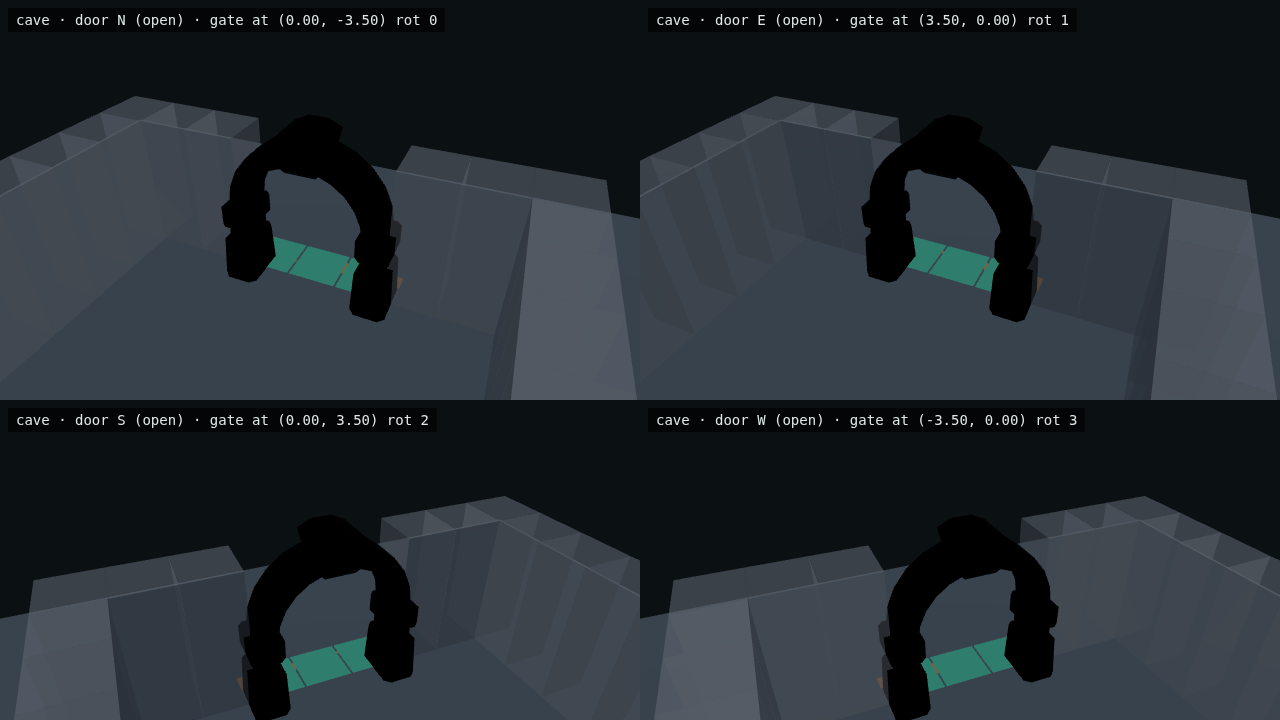
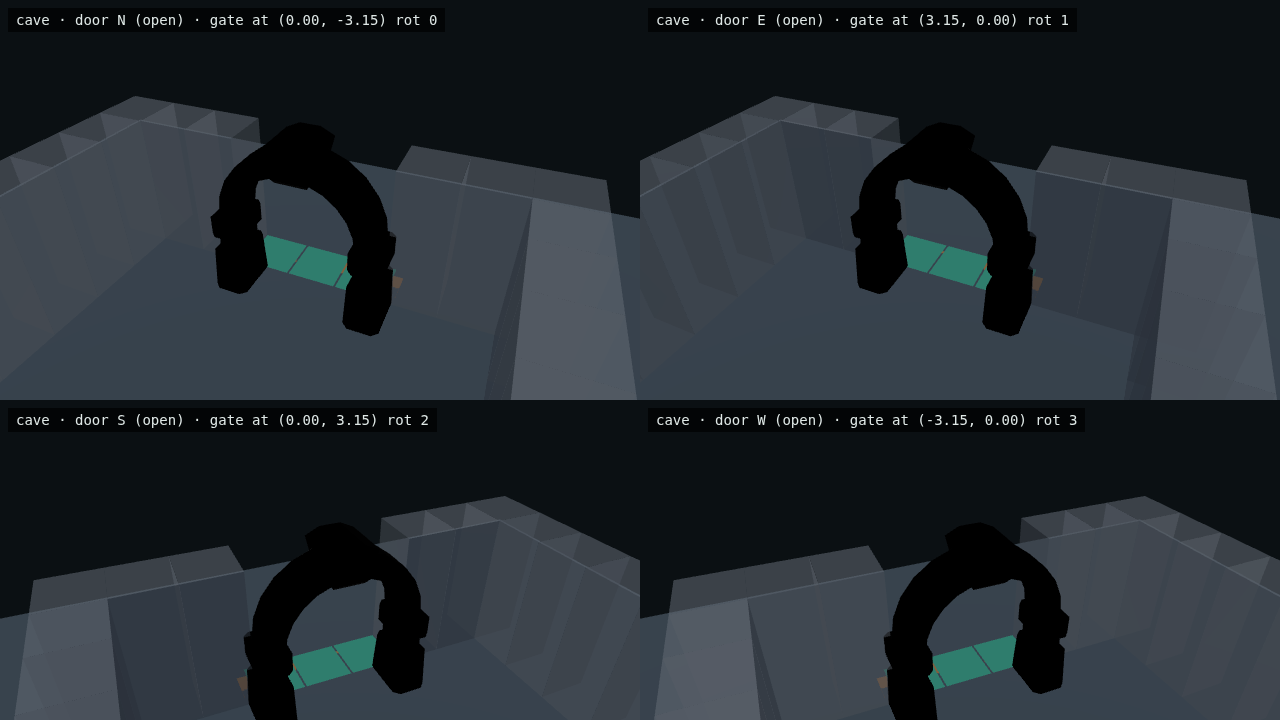
fix(world): stand the gateway frame clear of the closed blast door (M1)
The four-side gateway probe (tests/e2e/probes/gateway-orientation.spec.js)
showed the frame matching the corridor convention on n/e/s/w in both skins and
framing the open threshold cleanly, but the closed procedural blast door, a
3.35 x 4.8 x 0.58 slab centred on the threshold line that sinks into the
floor, ran through both posts and above the arch: centred, and still with
e113e3e3's half-cell inset (frame half-depth 0.525 + slab half-thickness 0.29
> 0.5).

- proceduralDoors.js owns the slab footprint (PROCEDURAL_DOOR_SLAB_SPAN /
  _THICKNESS); threeGame scales the door mesh from them.
- kitGrammar.GATEWAY_ROOM_INSET derives the room-side inset from the gate's
  measured half-depth at KIT_SCALE plus the slab's half-thickness plus 3.5 cm
  (about 0.85), so the frame stands just clear of the slab.
- kitGrammar.test reads both gate.glb files and proves the frame's back face
  clears the slab by less than a tenth of a cell; the four-side and set-piece
  expectations use the constant.
- Re-captured the four closed/open evidence images; continuation journal
  records the finding.

Checks: 41 focused tests (also on the staged snapshot alone), full suite
4,952 passed, 500-seed sweep 0 failures, docs audit passed.

diff --git a/src/kitGrammar.test.js b/src/kitGrammar.test.js
@@ -1,9 +1,35 @@
 import { describe, expect, it } from 'vitest';
+import fs from 'node:fs';
 import { WORLD_3D_MODELS } from './world3dOverlay.js';
+import { KIT_SCALE } from './kitMaterials.js';
+import { PROCEDURAL_DOOR_SLAB_THICKNESS } from './proceduralDoors.js';
 import {
-    KIT_SKINS, SHARED_ROLES, SKIN_ONLY_ROLES,
+    KIT_SKINS, SHARED_ROLES, SKIN_ONLY_ROLES, GATE_MODEL_HALF_DEPTH, GATEWAY_ROOM_INSET,
     skinForBiome, kitPieceFor, chooseKitPiece, corridorKitPlacement, roomGatewayKitPlacement
 } from './kitGrammar.js';
+
+// Z extent (depth across the threshold) of every mesh in a GLB, from its
+// POSITION accessor bounds through the node translations. Enough for the
+// kit gate, whose nodes are translated but not rotated or scaled.
+function glbDepthExtent(path) {
+    const buffer = fs.readFileSync(path);
+    const json = JSON.parse(buffer.subarray(20, 20 + buffer.readUInt32LE(12)).toString('utf8'));
+    let min = Infinity;
+    let max = -Infinity;
+    const visit = (index, offsetZ) => {
+        const node = json.nodes[index];
+        expect(node.rotation ?? [0, 0, 0, 1]).toEqual([0, 0, 0, 1]);
+        const z = offsetZ + (node.translation?.[2] ?? 0);
+        for (const primitive of json.meshes[node.mesh]?.primitives ?? []) {
+            const accessor = json.accessors[primitive.attributes.POSITION];
+            min = Math.min(min, z + accessor.min[2]);
+            max = Math.max(max, z + accessor.max[2]);
+        }
+        for (const child of node.children ?? []) visit(child, z);
+    };
+    for (const root of json.scenes[json.scene ?? 0].nodes) visit(root, 0);
+    return { min, max };
+}
 
 describe('biome skinning', () => {
     it('routes rock biomes to the cave kit and fabricated ones to space', () => {
@@ -143,14 +169,27 @@ describe('role resolution', () => {
 
 describe('authored room gateway placement', () => {
     it.each([
-        ['n', [{ x: 3, y: 2 }, { x: 4, y: 2 }, { x: 5, y: 2 }], 4, 2.5, 0],
-        ['e', [{ x: 8, y: 4 }, { x: 8, y: 5 }, { x: 8, y: 6 }], 7.5, 5, 1],
-        ['s', [{ x: 3, y: 8 }, { x: 4, y: 8 }, { x: 5, y: 8 }], 4, 7.5, 2],
-        ['w', [{ x: 2, y: 4 }, { x: 2, y: 5 }, { x: 2, y: 6 }], 2.5, 5, 3]
+        ['n', [{ x: 3, y: 2 }, { x: 4, y: 2 }, { x: 5, y: 2 }], 4, 2 + GATEWAY_ROOM_INSET, 0],
+        ['e', [{ x: 8, y: 4 }, { x: 8, y: 5 }, { x: 8, y: 6 }], 8 - GATEWAY_ROOM_INSET, 5, 1],
+        ['s', [{ x: 3, y: 8 }, { x: 4, y: 8 }, { x: 5, y: 8 }], 4, 8 - GATEWAY_ROOM_INSET, 2],
+        ['w', [{ x: 2, y: 4 }, { x: 2, y: 5 }, { x: 2, y: 6 }], 2 + GATEWAY_ROOM_INSET, 5, 3]
     ])('insets and turns the %s frame toward the room', (side, cells, x, y, rotationSteps) => {
         expect(roomGatewayKitPlacement({ side, cells }, 'bio')).toEqual({
             type: 'kit_cave_gate', x, y, rotationSteps, modelScale: 1
         });
+    });
+
+    // Gateway probe 2026-10-04: a half-cell inset left the closed blast door
+    // (a slab centred on the threshold line) running through both posts.
+    it.each(['cave', 'space'])('stands the %s frame clear of the closed blast door', (skin) => {
+        const { min, max } = glbDepthExtent(`public/3d/runtime/kits/modular-${skin}-kit/gate.glb`);
+        const halfDepth = Math.max(-min, max);
+        expect(halfDepth).toBeLessThanOrEqual(GATE_MODEL_HALF_DEPTH + 1e-6);
+        const frameBackFace = GATEWAY_ROOM_INSET - halfDepth * KIT_SCALE;
+        const slabRoomFace = PROCEDURAL_DOOR_SLAB_THICKNESS / 2;
+        expect(frameBackFace).toBeGreaterThan(slabRoomFace);
+        // ...but not so far that the frame floats in the room: under a tenth of a cell.
+        expect(frameBackFace - slabRoomFace).toBeLessThan(0.1);
     });
 
     it('rejects malformed thresholds', () => {

diff --git a/src/kitGrammar.js b/src/kitGrammar.js
@@ -14,6 +14,7 @@
  */
 
 import { KIT_SCALE } from './kitMaterials.js';
+import { PROCEDURAL_DOOR_SLAB_THICKNESS } from './proceduralDoors.js';
 
 export const KIT_SKINS = Object.freeze({ CAVE: 'cave', SPACE: 'space' });
 
@@ -199,6 +200,20 @@ export function corridorKitPlacement(grid, x, y, biome, { width = 0 } = {}) {
     return type ? { type, role: placedRole, rotationSteps, modelScale } : null;
 }
 
+/** Both skins' gate.glb are 1.4 units deep before KIT_SCALE (front/back +-0.7). */
+export const GATE_MODEL_HALF_DEPTH = 0.7;
+
+/**
+ * How far into the room the gateway frame stands from the threshold line.
+ * The closed procedural blast door is a slab centred on that line which sinks
+ * into the floor to open; a frame centred there, or inset only half a cell,
+ * encloses the slab and its posts cut through it (gateway-orientation probe,
+ * 2026-10-04). Clear the slab's room-side face by a few centimetres instead.
+ */
+export const GATEWAY_ROOM_INSET = GATE_MODEL_HALF_DEPTH * KIT_SCALE
+    + PROCEDURAL_DOOR_SLAB_THICKNESS / 2
+    + 0.035;
+
 /**
  * Turn an authored three-cell room threshold into an open modular gateway.
  *
@@ -214,10 +229,10 @@ export function roomGatewayKitPlacement(door, biome) {
     if (valid.length === 0) return null;
     const skin = skinForBiome(biome);
     const transform = {
-        n: { x: 0, y: 0.5, rotationSteps: 0 },
-        e: { x: -0.5, y: 0, rotationSteps: 1 },
-        s: { x: 0, y: -0.5, rotationSteps: 2 },
-        w: { x: 0.5, y: 0, rotationSteps: 3 }
+        n: { x: 0, y: GATEWAY_ROOM_INSET, rotationSteps: 0 },
+        e: { x: -GATEWAY_ROOM_INSET, y: 0, rotationSteps: 1 },
+        s: { x: 0, y: -GATEWAY_ROOM_INSET, rotationSteps: 2 },
+        w: { x: GATEWAY_ROOM_INSET, y: 0, rotationSteps: 3 }
     }[door.side];
     return {
         type: `kit_${skin}_gate`,

diff --git a/src/threeGame.js b/src/threeGame.js
@@ -152,7 +152,9 @@ import {
     restoreDoorStates,
     serializeDoorStates,
     stampDoorRecords,
-    transitionDoorState
+    transitionDoorState,
+    PROCEDURAL_DOOR_SLAB_SPAN,
+    PROCEDURAL_DOOR_SLAB_THICKNESS
 } from './proceduralDoors.js';
 import {
     createAccessState,
@@ -30531,9 +30533,9 @@ export class ThreeGame {
                     const blastDoorHeightScale = 1.72;
                     doorMesh.position.set(worldX, (this.wallHeight * blastDoorHeightScale) / 2, worldZ);
                     doorMesh.scale.set(
-                        horizontal ? 3.35 : 0.58,
+                        horizontal ? PROCEDURAL_DOOR_SLAB_SPAN : PROCEDURAL_DOOR_SLAB_THICKNESS,
                         blastDoorHeightScale,
-                        horizontal ? 0.58 : 3.35
+                        horizontal ? PROCEDURAL_DOOR_SLAB_THICKNESS : PROCEDURAL_DOOR_SLAB_SPAN
                     );
                     doorMesh.castShadow = true;
                     doorMesh.receiveShadow = true;

diff --git a/src/threeGame.roomSetPieces.test.js b/src/threeGame.roomSetPieces.test.js
@@ -1,5 +1,6 @@
 import { describe, expect, it } from 'vitest';
 import { ThreeGame, isRoomGatewayFrameEligible } from './threeGame.js';
+import { GATEWAY_ROOM_INSET } from './kitGrammar.js';
 
 // A grid with two solid 5x3 floor blocks, far enough apart that neither has
 // any "doorway" cell (wall-floor-wall on one axis) — isolates the "Room Set
@@ -105,7 +106,7 @@ describe('createChunkSetPiecePlacements — room-gated set dressing', () => {
         const gateway = placements.find(({ scatterKey }) => scatterKey.startsWith('room-gateway:'));
 
         expect(gateway).toMatchObject({
-            x: 13.5,
+            x: 14 - GATEWAY_ROOM_INSET,
             z: 8,
             type: 'kit_space_gate',
             rotation: Math.PI / 2,

diff --git a/src/proceduralDoors.js b/src/proceduralDoors.js
@@ -1,3 +1,10 @@
+// Blast-door slab footprint in world units: it spans the three-cell threshold
+// and is this thick across it, centred on the middle cell, and sinks into the
+// floor to open. threeGame scales its wall box to these; the room gateway frame
+// (kitGrammar.GATEWAY_ROOM_INSET) stands clear of the slab using them.
+export const PROCEDURAL_DOOR_SLAB_SPAN = 3.35;
+export const PROCEDURAL_DOOR_SLAB_THICKNESS = 0.58;
+
 const SIDE_ORIENTATION = Object.freeze({
     n: 'horizontal',
     s: 'horizontal',

diff --git a/docs/planning/sprint-49-lived-in-world-continuation.md b/docs/planning/sprint-49-lived-in-world-continuation.md
@@ -162,10 +162,10 @@ objects ship behind a flag until that capture exists.
 
 ### Goal 1 — gateway alignment (M1)
 
-**Now:** [`roomGatewayKitPlacement(door, biome)`](../../src/kitGrammar.js) centres
-`kit_<skin>_gate` on the authored threshold cells, `rotationSteps` 0 for n/s doors
-and 1 for e/w, scale 1, at most one per authored room, non-colliding. It has never
-been looked at in a real run.
+**Before M1:** [`roomGatewayKitPlacement(door, biome)`](../../src/kitGrammar.js)
+centred `kit_<skin>_gate` on the authored threshold cells, `rotationSteps` 0 for n/s
+doors and 1 for e/w, scale 1, at most one per authored room, non-colliding. No one
+had seen it rendered.
 
 - [x] Screenshot the gate on a north, east, south and west authored threshold
   (showroom or seeded run) and record whether the frame's authored forward matches
@@ -178,6 +178,20 @@ been looked at in a real run.
 
 **Accept:** four-side test passes; 500-seed sweep clean; screenshots committed
 under `docs/reports/assets/`.
+
+**Result (2026-10-04):** the gate frame matches the corridor convention on all four
+sides in both skins (`gate.glb` is 4.4 × 1.4 units, so 3.3/3.15 wide × 1.05 deep at
+`KIT_SCALE`), and frames the open threshold cleanly. The closed blast door did not
+fit. It is a 3.35 × 4.8 × 0.58 slab centred on the threshold line that sinks into
+the floor to open, so it ran through both posts and above the arch, both with the
+frame centred and with `e113e3e3`'s half-cell inset. The frame now stands
+`GATEWAY_ROOM_INSET` (≈0.85 = frame half-depth 0.525 + slab half-thickness 0.29 +
+3.5 cm) into the room, just clear of the slab's room-side face. The slab footprint
+moved to [`proceduralDoors.js`](../../src/proceduralDoors.js) constants so the two
+cannot drift apart, and a test measures both `gate.glb` files against them.
+Evidence: `HB_PROBES=1 npx playwright test tests/e2e/probes/gateway-orientation.spec.js`
+writes `docs/reports/assets/gateway-orientation-{cave,space}-{closed,open}-2026-10-04.png`.
+Checks: 41 focused tests, full suite 4,952 passed, 500-seed sweep 0 failures.
 
 ### Goal 2 — floor grounding (M2)
 
